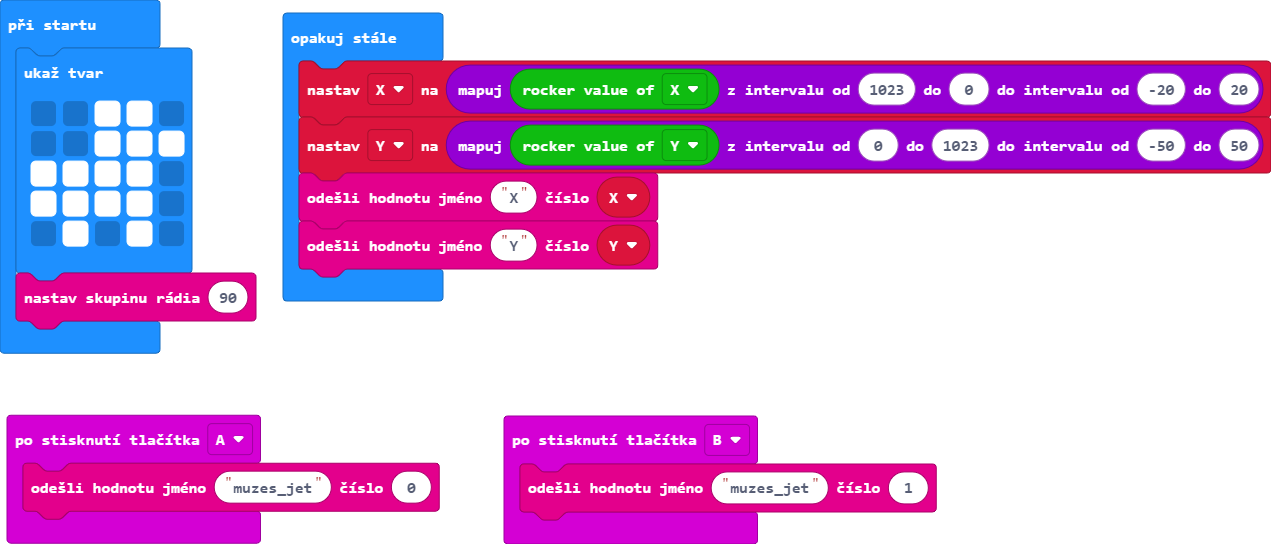
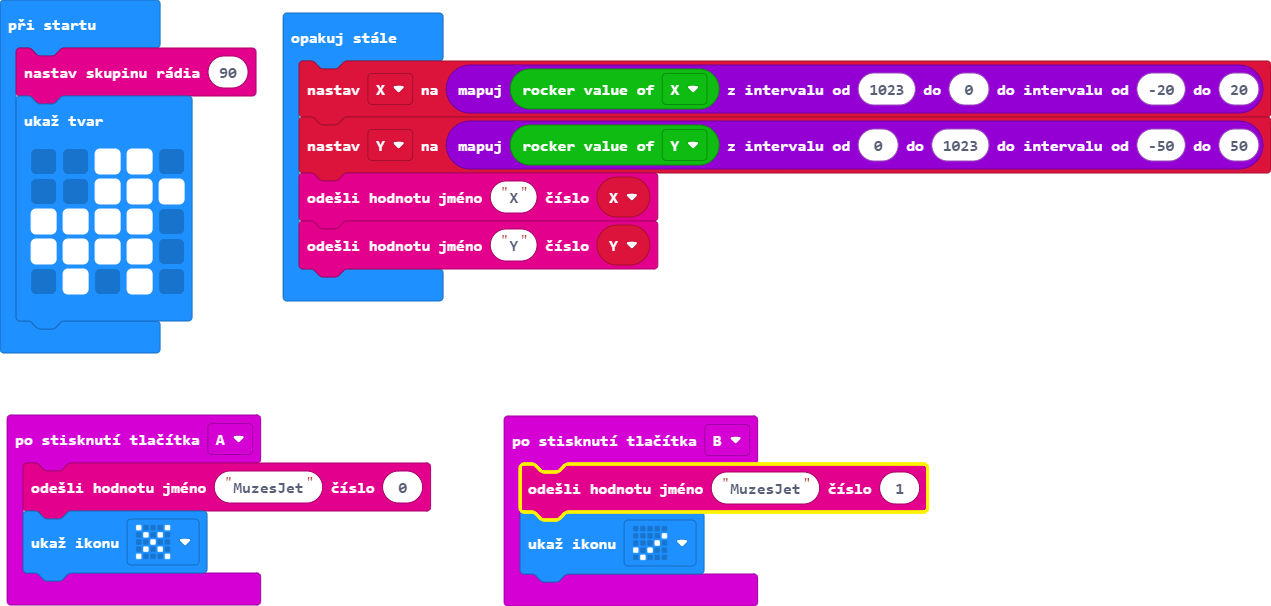
Aktualizovat main.blocks, main.ts

diff --git a/main.ts b/main.ts
@@ -1,11 +1,14 @@
 input.onButtonPressed(Button.A, function () {
-    radio.sendValue("muzes_jet", 0)
+    radio.sendValue("MuzesJet", 0)
+    basic.showIcon(IconNames.No)
 })
 input.onButtonPressed(Button.B, function () {
-    radio.sendValue("muzes_jet", 1)
+    radio.sendValue("MuzesJet", 1)
+    basic.showIcon(IconNames.Yes)
 })
 let Y = 0
 let X = 0
+radio.setGroup(90)
 basic.showLeds(`
     . . # # .
     . . # # #
@@ -13,7 +16,6 @@ basic.showLeds(`
     # # # # .
     . # . # .
     `)
-radio.setGroup(90)
 basic.forever(function () {
     X = Math.map(joystickbit.getRockerValue(joystickbit.rockerType.X), 1023, 0, -20, 20)
     Y = Math.map(joystickbit.getRockerValue(joystickbit.rockerType.Y), 0, 1023, -50, 50)
